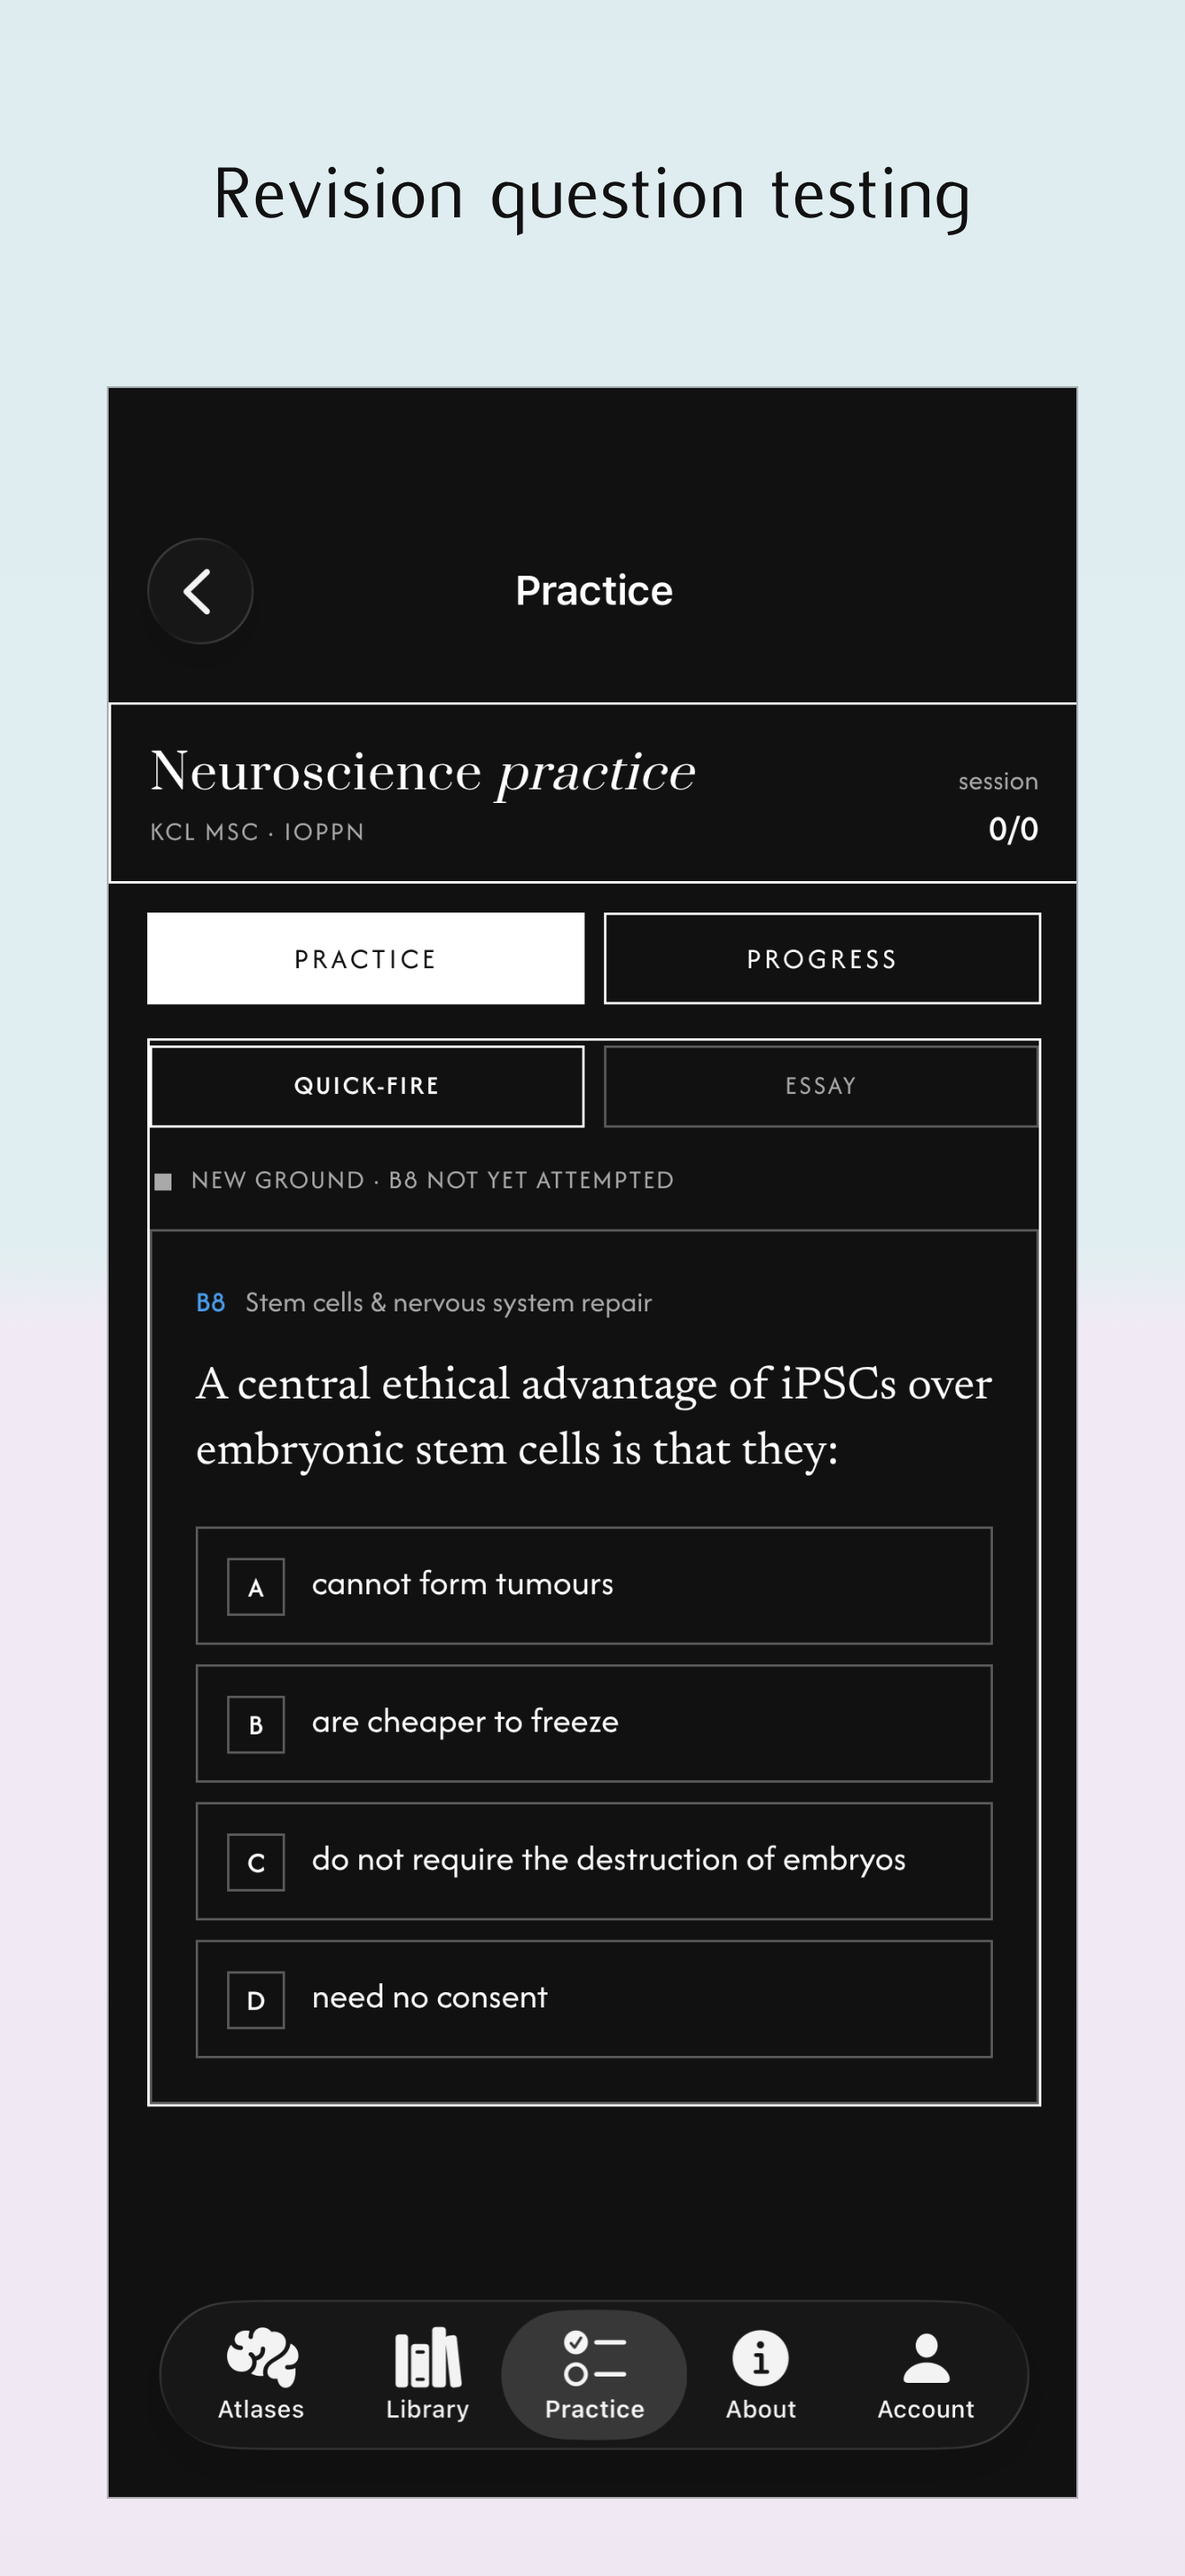
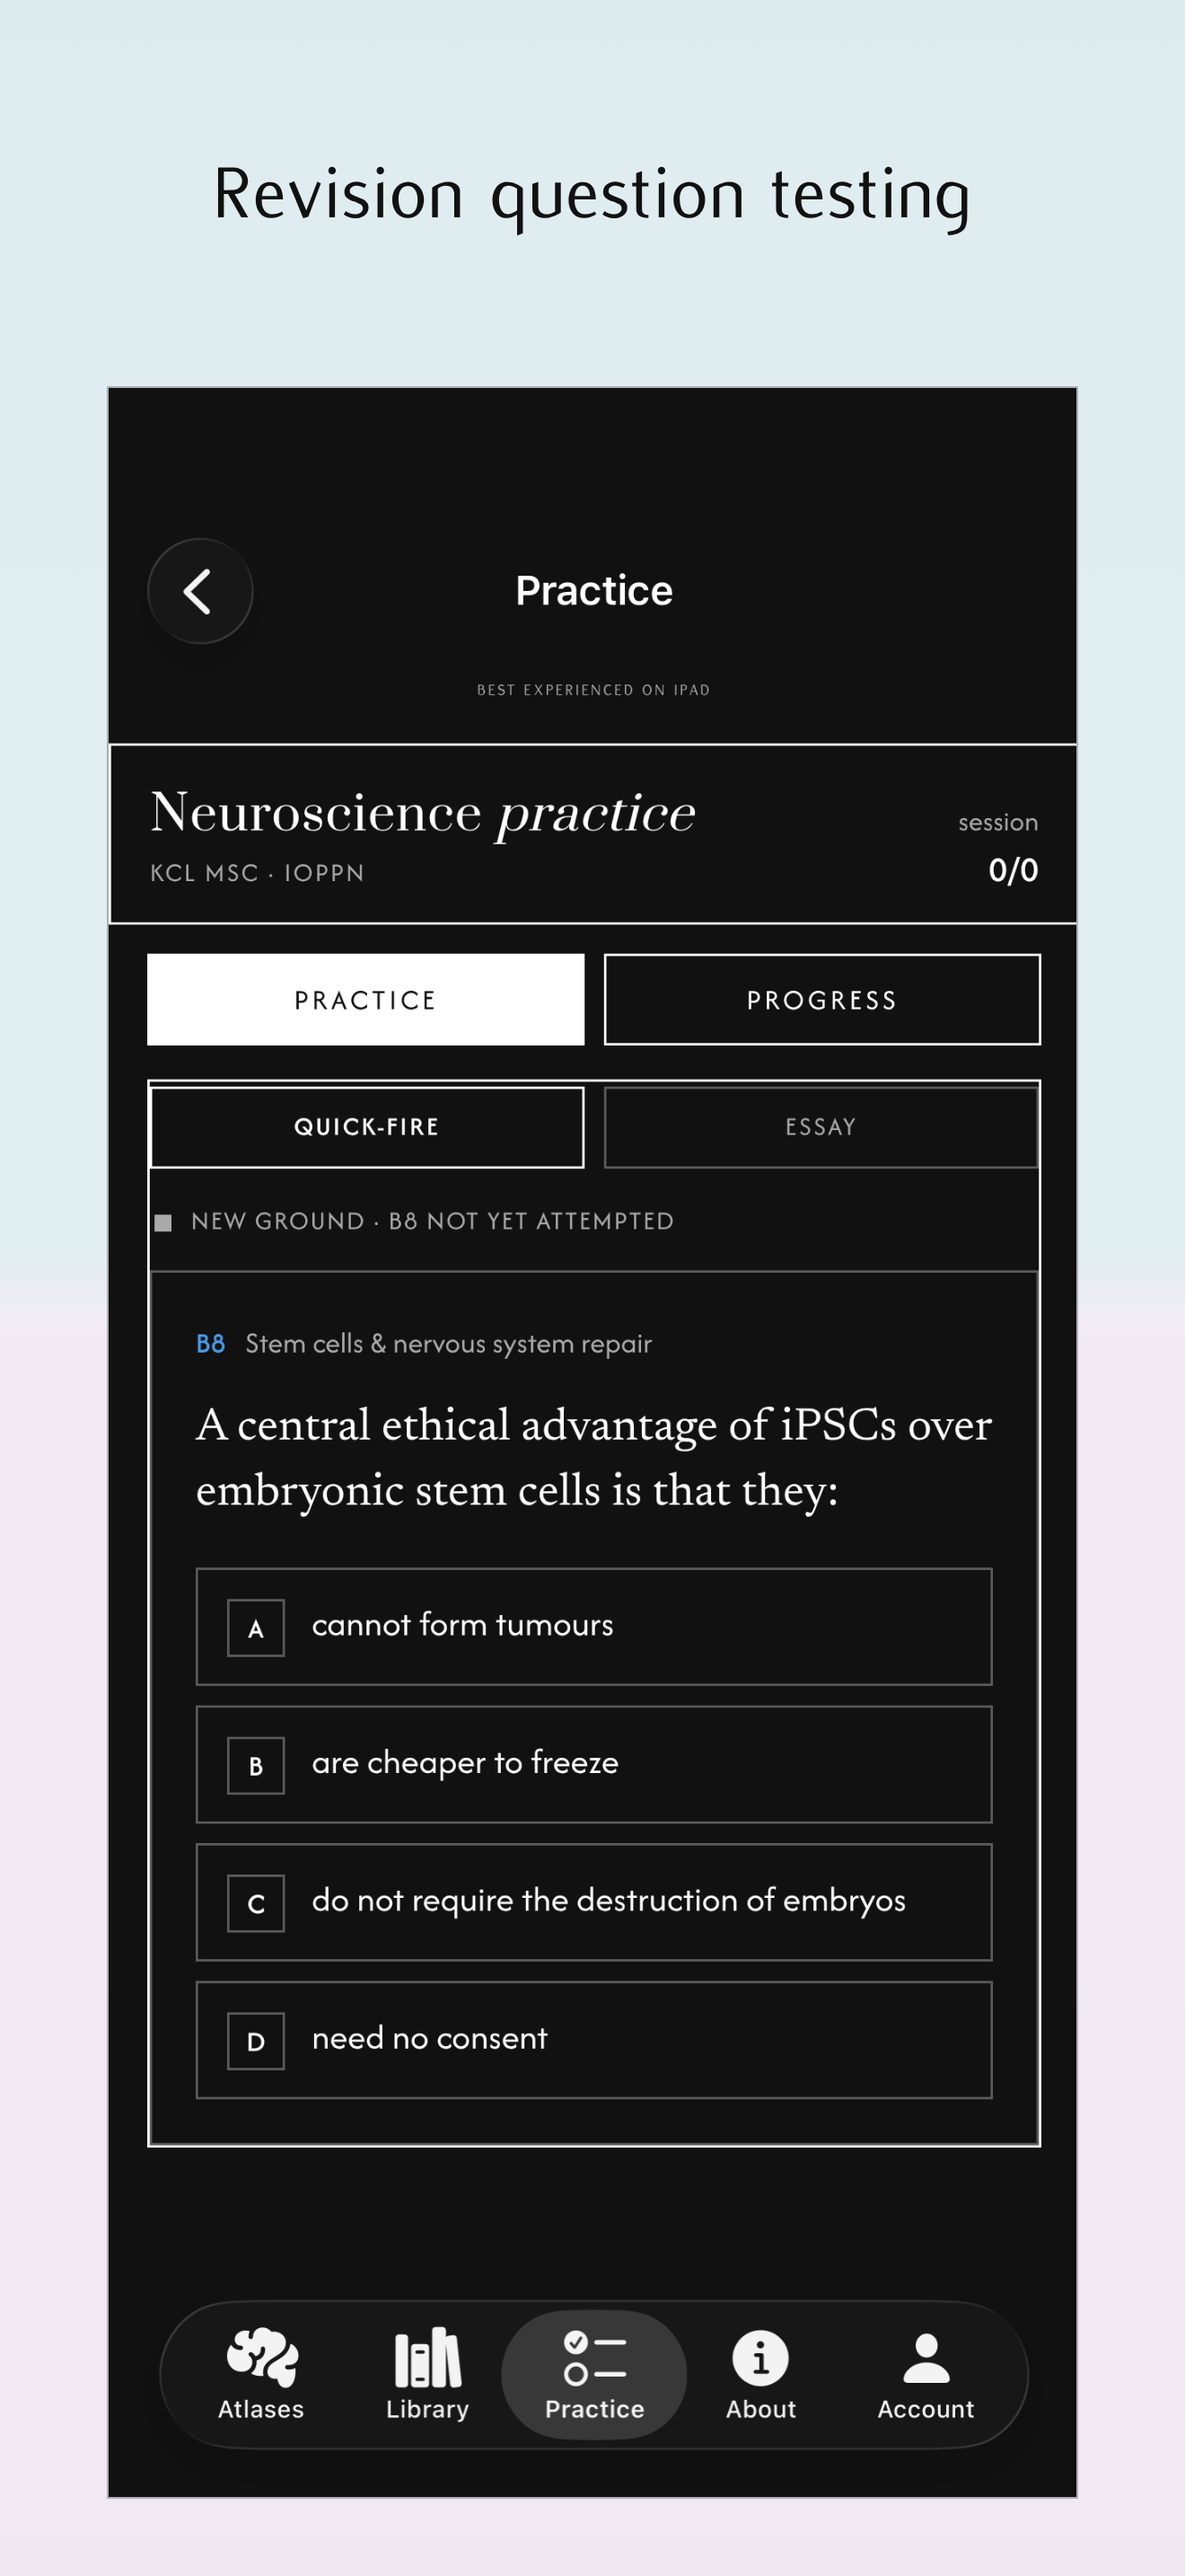
Put a one-line notice at the top of a phone, for the iPad in the app and the desktop on the web
At the owner's word a phone carries one small line at the top: in the iPhone app's tabs the pages say Best experienced on iPad and the tab pages say it too in SwiftUI, and on the website with a coarse pointer on a narrow window, or a short one held sideways, the line reads Best experienced on desktop. navbar.js sets it first in the body in the smallest type the app uses, the slice tool's axis labels' on a phone, and the one-screen pages measure their room from under it; an iPad, a computer and the Android app see nothing, and the store shoot leaves the website's line out of the apps' sets. The eight iPhone App Store images are remade with the line, the service worker's version moves on and the ledger carries v12.14.

Changed region(s): [[0.1242, 0.2793, 0.9008, 0.8379]]

diff --git a/site/assets/navbar.js b/site/assets/navbar.js
@@ -291,3 +291,29 @@
   var menu = document.getElementById("vn-menu");
   if (menu) menu.appendChild(group("vn-social-menu", true));
 })();
+
+/* A line at the top of a phone (v12.14, at the owner's word): in the iPhone
+   app's tabs, Best experienced on iPad; on the website on a phone, Best
+   experienced on desktop; nowhere else, an iPad, a desktop and the Android
+   app included. It stands first in the body, above the masthead on the
+   website, in the smallest type the app uses (viewer.css, .vn-best), and the
+   one-screen pages measure their room from under it. A phone is a narrow
+   window or, held sideways, a short one with a coarse pointer. */
+(function(){
+  var root = document.documentElement, body = document.body;
+  if (!body || !window.matchMedia) return;
+  var phone = window.matchMedia("(max-width: 760px)").matches ||
+              window.matchMedia("(pointer: coarse) and (max-height: 500px)").matches;
+  if (!phone) return;
+  var say = null;
+  if (root.hasAttribute("data-native")){
+    if (root.hasAttribute("data-shell") && !root.hasAttribute("data-shell-pad")) say = "Best experienced on iPad";
+  } else if (window.matchMedia("(pointer: coarse)").matches){
+    say = "Best experienced on desktop";
+  }
+  if (!say) return;
+  var line = document.createElement("p");
+  line.className = "vn-best";
+  line.textContent = say;
+  body.insertBefore(line, body.firstChild);
+})();

diff --git a/app/ios/App/App/ShellKit.swift b/app/ios/App/App/ShellKit.swift
@@ -170,6 +170,16 @@ struct TabPage<Content: View>: View {
         TabStack {
             ScrollView {
                 VStack(spacing: 14) {
+                    /* on an iPhone a line at the top of every tab, in the kicker's type
+                       (v12.14, at the owner's word); the pages say it too (navbar.js) */
+                    if UIDevice.current.userInterfaceIdiom == .phone {
+                        Text("Best experienced on iPad".uppercased())
+                            .font(Faces.brand(10, .caption2))
+                            .tracking(2.6)
+                            .foregroundColor(Palette.ink60)
+                            .frame(maxWidth: .infinity)
+                            .padding(.top, 2)
+                    }
                     content
                 }
                 .padding(14)

diff --git a/site/assets/viewer.css b/site/assets/viewer.css
@@ -743,3 +743,13 @@ a.box:active{ transform:scale(.992); }
   .vn-tab{ color:var(--ink); }
   .vn-tab[aria-current]{ background:var(--ink); color:var(--paper); box-shadow:none; }
 }
+
+/* ── a line at the top of a phone (v12.14, at the owner's word) ──────────
+   Best experienced on iPad in the iPhone app, Best experienced on desktop on
+   the website on a phone, set first in the body by navbar.js, in the
+   smallest type the app uses, the slice tool's axis labels' on a phone. */
+.vn-best{
+  font-family:var(--font-brand); font-weight:500; font-size:.42rem; letter-spacing:.14em; text-transform:uppercase;
+  color:var(--ink-60); text-align:center; line-height:1; margin:0; padding:.35rem .6rem .3rem;
+  -webkit-user-select:none; user-select:none;
+}

diff --git a/app/scripts/shoot-store.js b/app/scripts/shoot-store.js
@@ -112,6 +112,8 @@ const SHOTS = {
       page.on('response', r => { if (r.status() >= 400) problems.push(name + ' HTTP ' + r.status() + ' ' + r.url()); });
       try {
         await page.goto('http://127.0.0.1:8412/' + S.url, { waitUntil: 'load' });
+        /* the website's line for a phone, Best experienced on desktop (v12.14), is not the apps' and is left out of their shots */
+        await page.addStyleTag({ content: '.vn-best{display:none}' });
         await S.ready(page);
         await settled(page);
         await frame(page, framing(F.kind, name));

diff --git a/site/sw.js b/site/sw.js
@@ -25,7 +25,7 @@
    Nothing cross-origin is touched at all — since the typefaces moved
    in-house there is no outside request left to think about. */
 
-var VERSION = "vn-227";
+var VERSION = "vn-228";
 var SHELL   = VERSION + "-shell";
 var BULK    = VERSION + "-bulk";
 

diff --git a/CLAUDE.md b/CLAUDE.md
@@ -72,7 +72,13 @@ Read this first in every session. It is the handover; nothing else needs pasting
   (`.mosaic.hub-library`, `.mosaic.hub-about`, switched in place by the page's hub script; the practice box shows on
   none, its tab leading there; the Android app, whose bar lists the sections, shows the whole mosaic). The
   social links left the header with it; the About page lists them. A new page gets the island by carrying the same
-  masthead markup as the others; `get.html` carries none on purpose.
+  masthead markup as the others; `get.html` carries none on purpose. Since v12.14, at the owner's word, a phone carries
+  one line at the top: `navbar.js`'s last section sets `p.vn-best` first in the body, Best experienced on iPad in the
+  iPhone app's tabs (`data-shell` without `data-shell-pad`) and Best experienced on desktop on the website with a
+  coarse pointer, on a window 760px wide or less or, sideways, 500px tall or less, in the smallest type the app uses
+  (`.vn-best` in `viewer.css`, `.42rem` Flux caps); an iPad, a computer and the Android app get none, the one-screen
+  pages measure their room from under it, `shoot-store.js` hides it in the store sets, and the app's tab pages say the
+  same on an iPhone in SwiftUI (`TabPage` in `ShellKit.swift`, the kicker's type).
 - `site/sw.js` precaches pages and assets: **bump `VERSION`** (`vn-NN`) whenever a precached file changes.
 - The app icon (v11.85, at the owner's word) is the brain wired with circuit traces and nodes on a white tile, on every
   platform, wearing the ring's colours since v11.86 and drawn as line vectors since v11.87: `scripts/appmark/trace.py`

diff --git a/docs/RELEASES.md b/docs/RELEASES.md
@@ -11,8 +11,13 @@ text below. Both can also be run from a clone on a machine that can push.
 
 Versions before v8.6 were released without a ledger and are not recorded.
 
+## v12.14 — 24 October 2026 — A line for the phone
+Commit · Put a one-line notice at the top of a phone, for the iPad in the app and the desktop on the web
+
+On an iPhone the app now carries one small line at the top of every tab and every page, Best experienced on iPad, and the website on a phone carries Best experienced on desktop, in the smallest type the app uses. An iPad, a computer and the Android app see nothing.
+
 ## v12.13 — 24 October 2026 — One black through the scans
-Commit · Make the page's black the darkest shade in every slice
+Commit `8737ab7` · Make the page's black the darkest shade in every slice
 
 In the dark theme the slices stood on the page's black since v12.8, but inside the head the ventricles, the fluid and the rim of the brain still went down to a scan's pure black, a darker shade than the page around them. The dark scale now bottoms out at the page's own black, so nothing in a slice is darker than the stage it stands on, on the 3D Region Atlas, the Network Atlas and the Hallucinations study alike. Every picture that shows a slice was retaken: the home pictures, the store screenshots and the App Store images.
 
